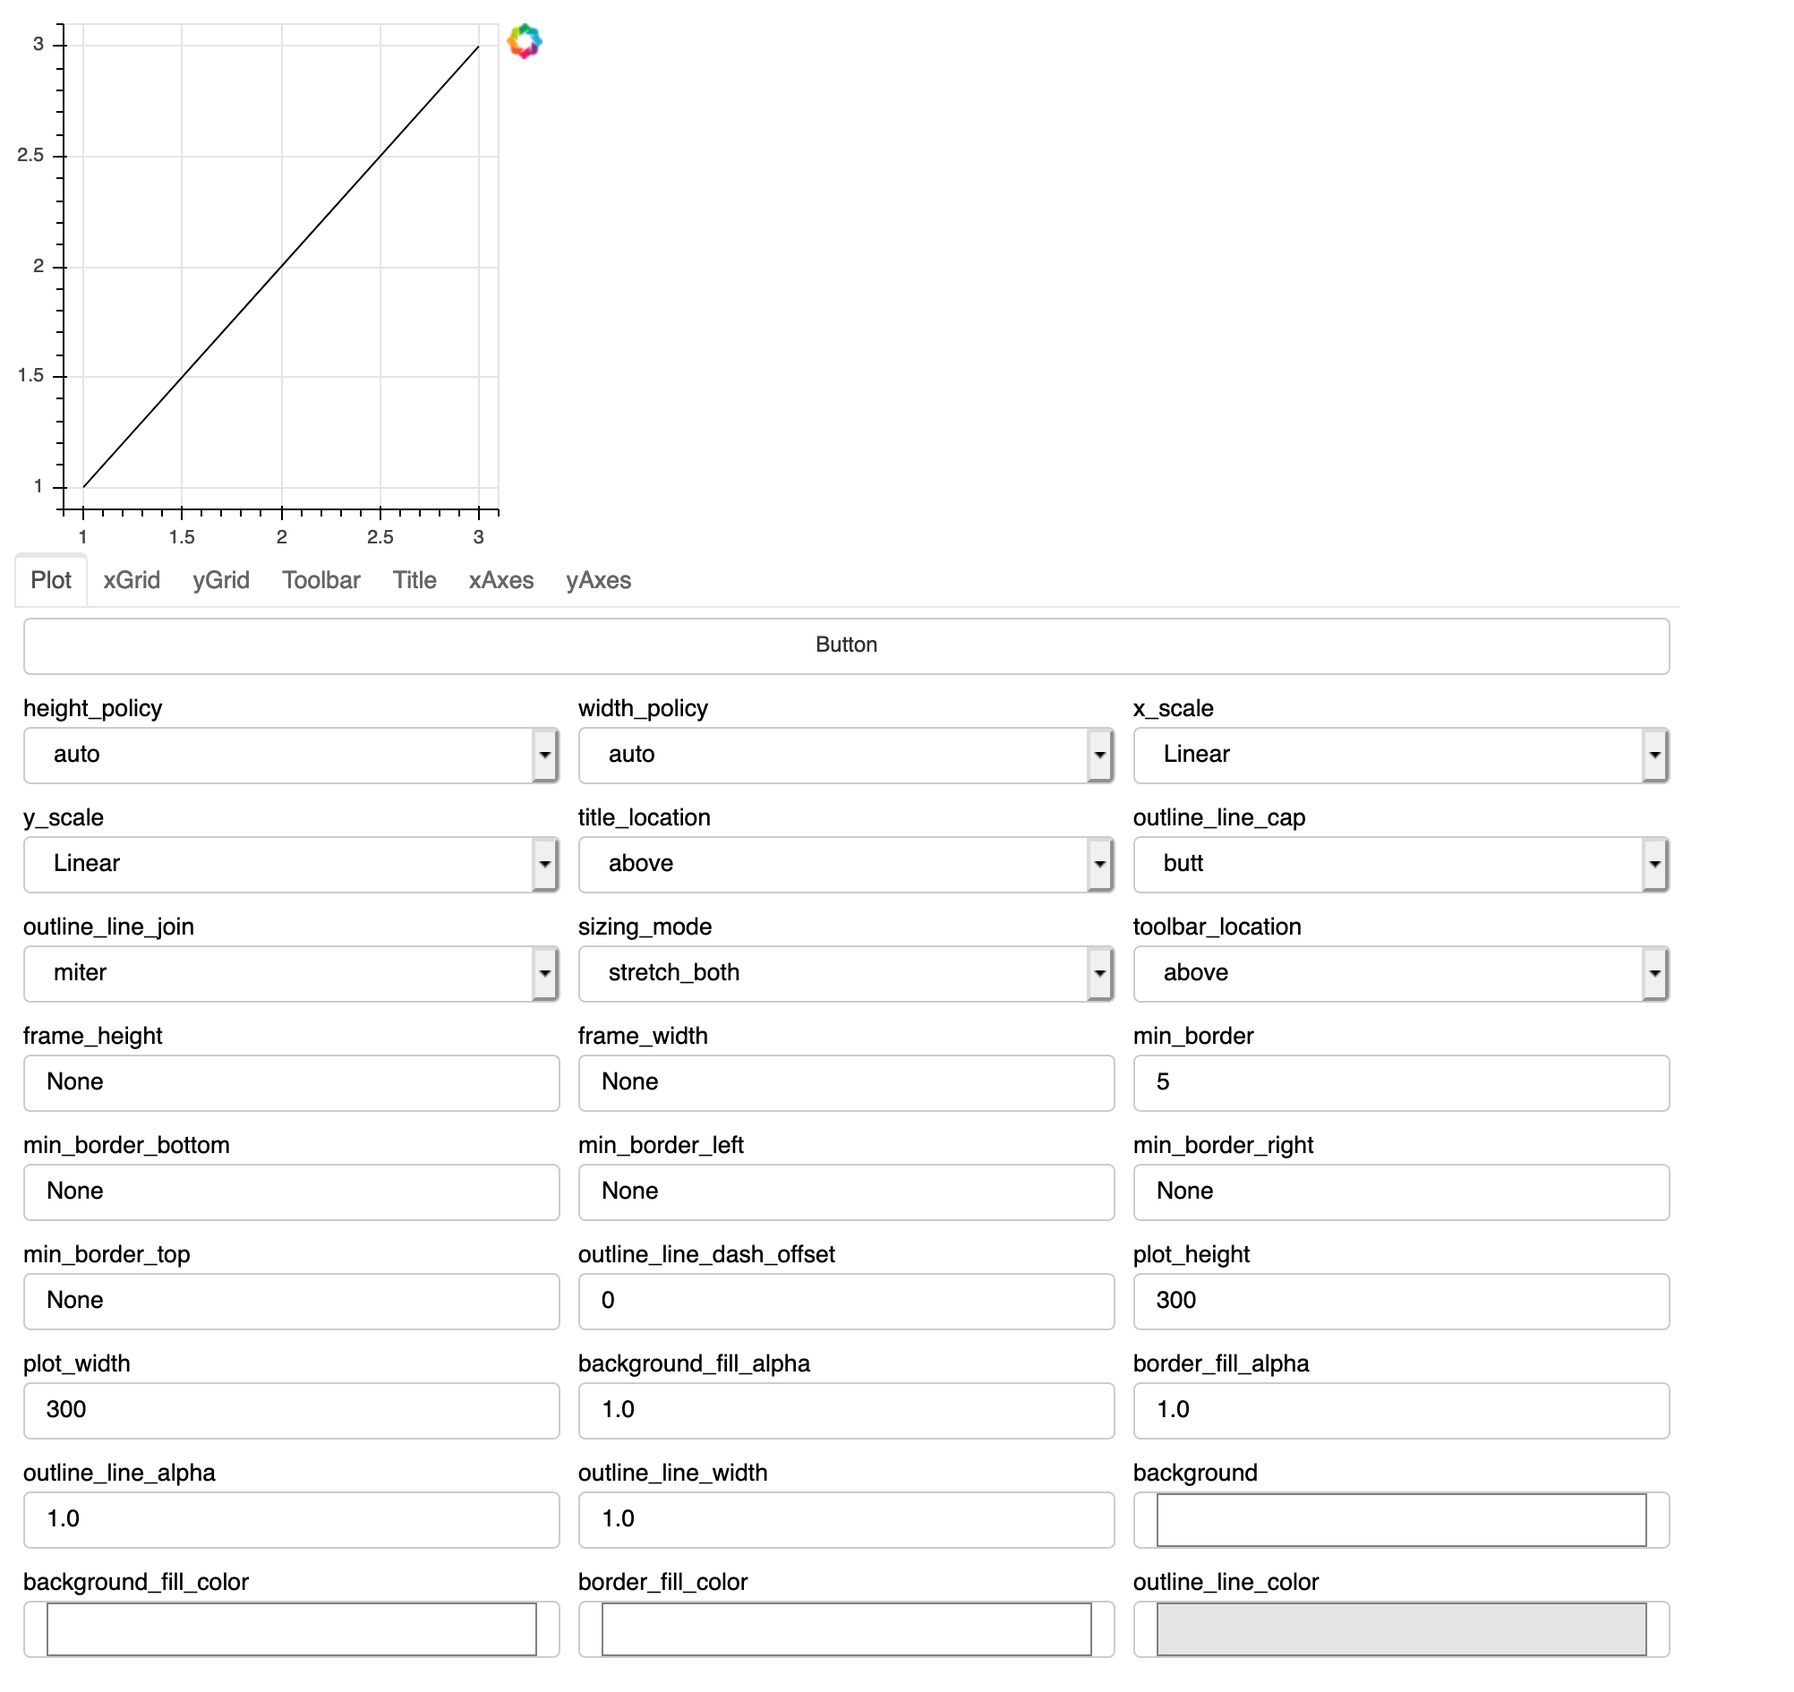
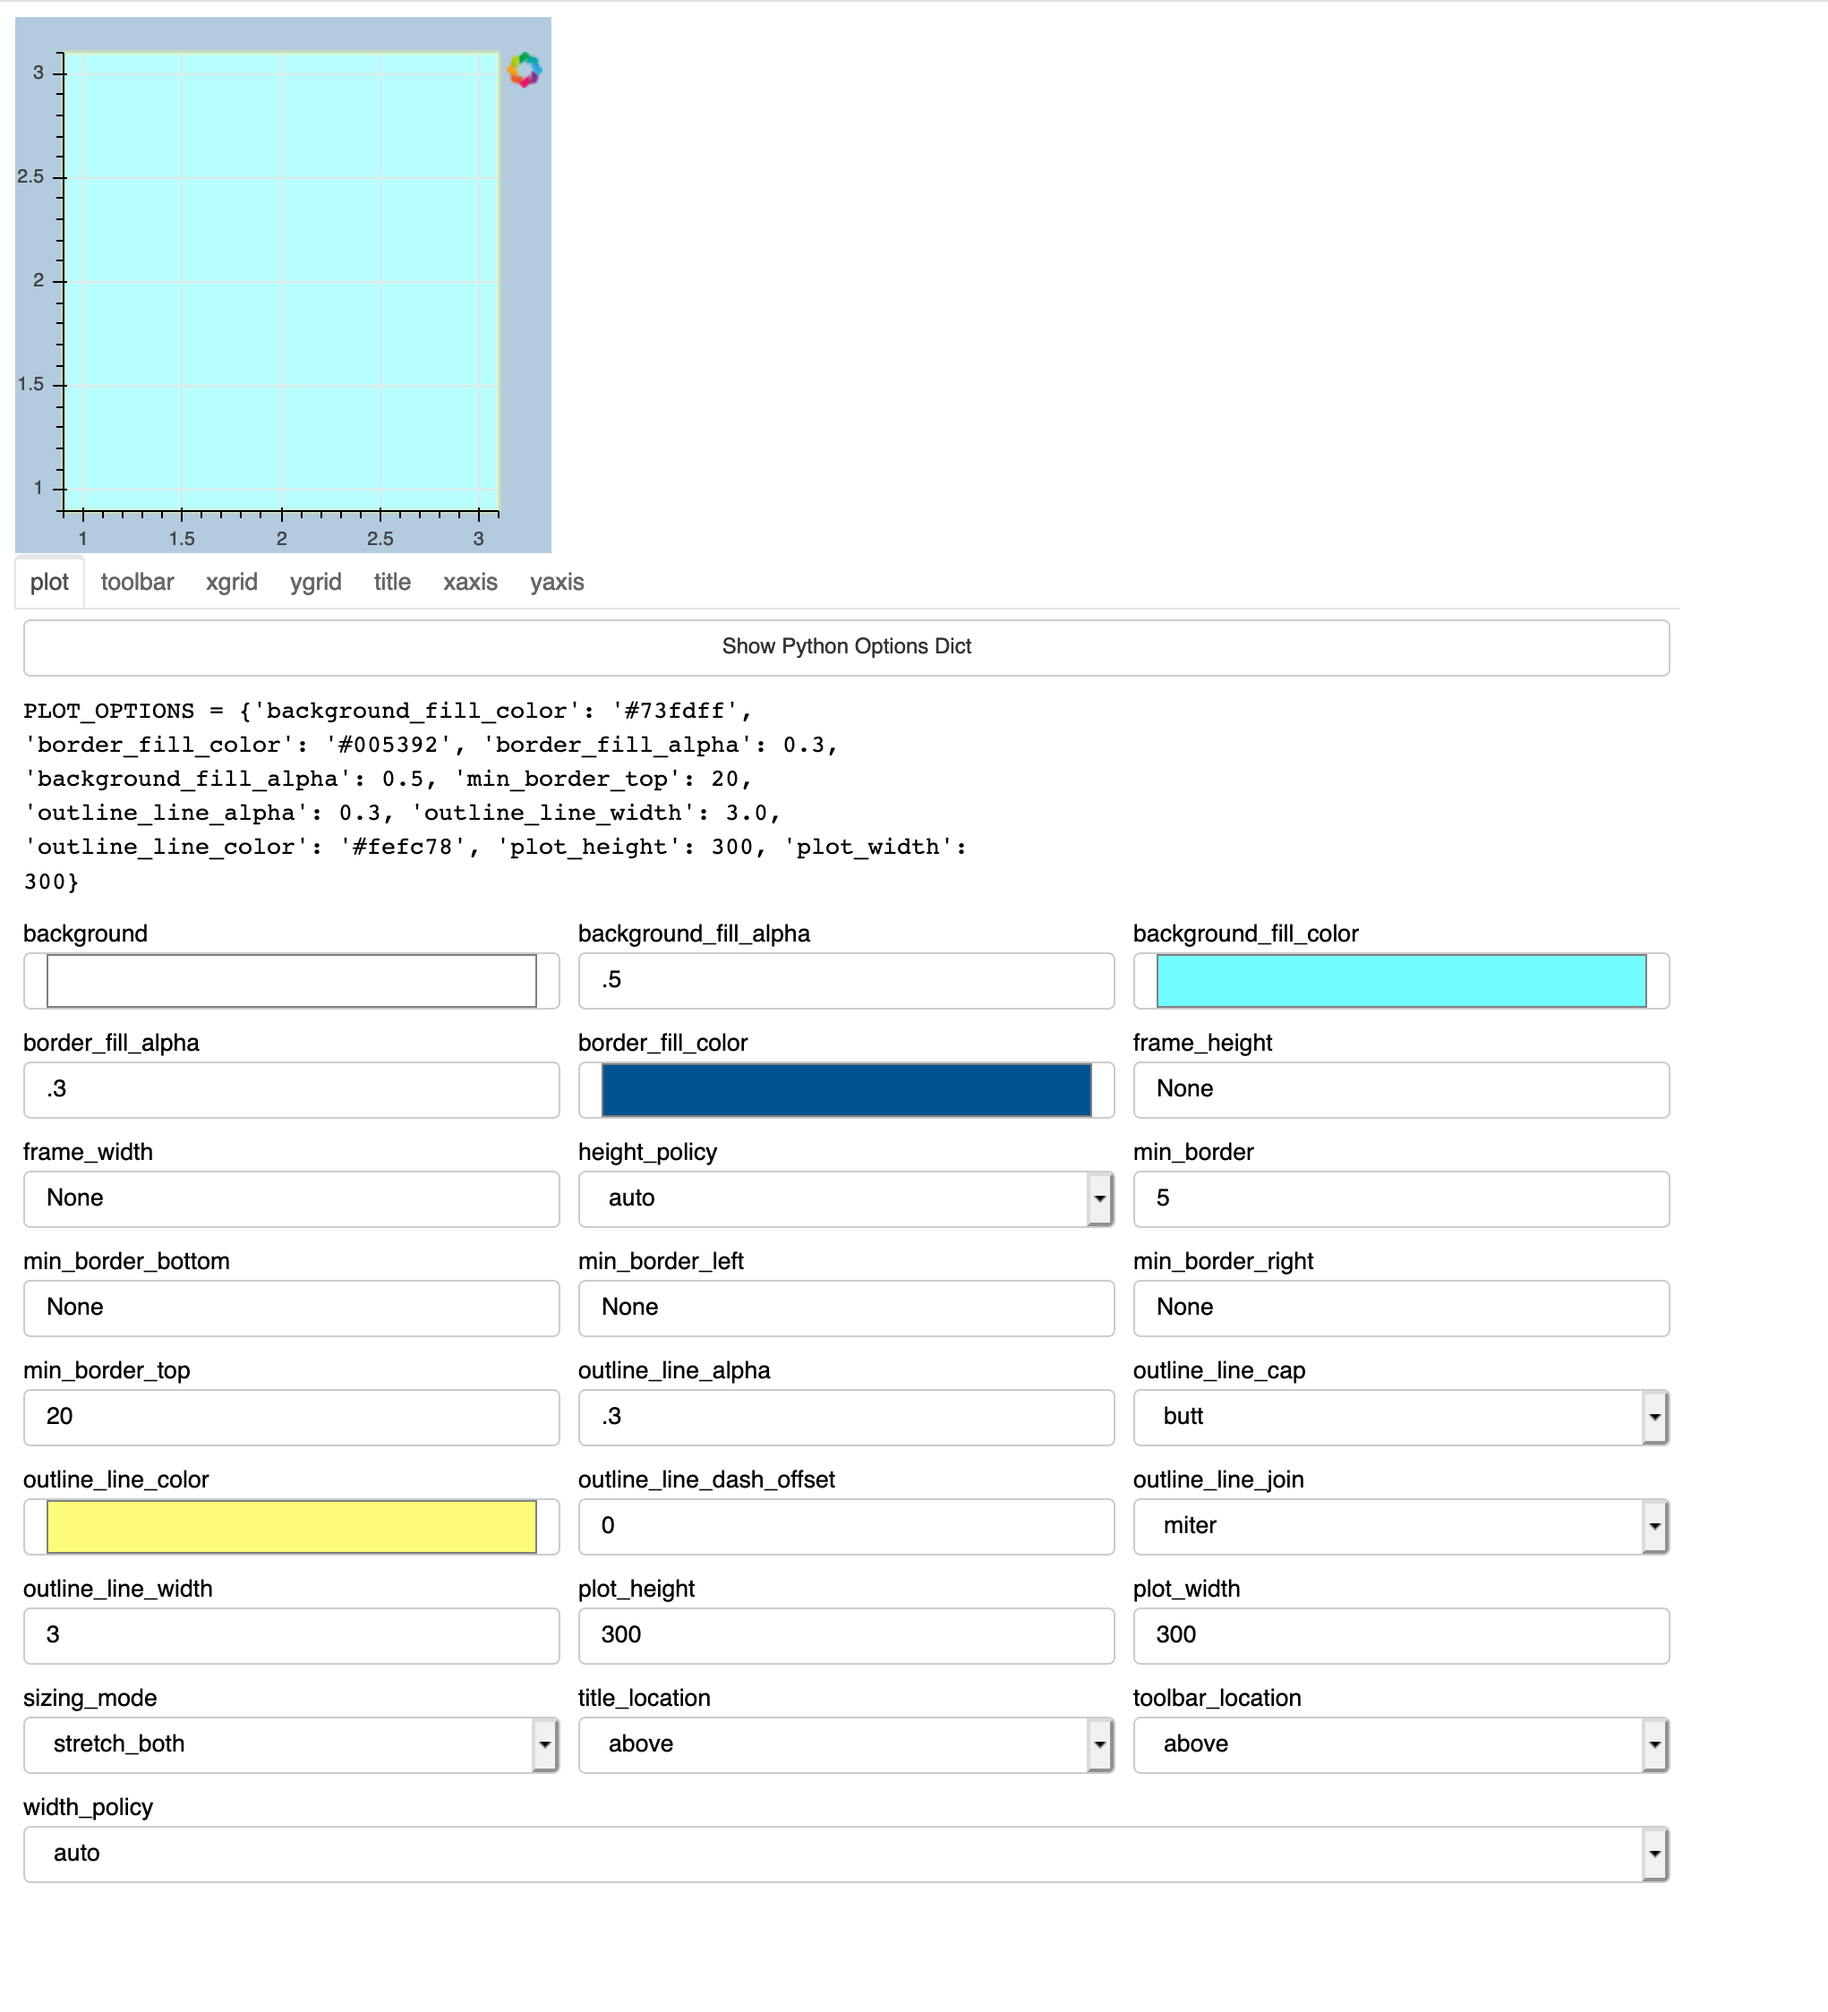
updated README to show progress

Changed region(s): [[0.0, 0.0, 0.9281, 0.9989]]

diff --git a/README.md b/README.md
@@ -10,13 +10,21 @@ This tool (very much under development) offers a graphical interface to those op
 working with this tool to prepare a plot format that they like, and then obtaining code from the tool
 that they can include in whatever bokeh project they are working on.
 
-To run this preliminary version and see the general idea, download the code and run
+As your theme evolves for a given tab, that tab will display a python statement of the form
+```
+PLOT_OPTIONS = {'background_fill_alpha':'#efefef',...}
+```
+You can copy these into a file [following the strategy outlined in this post](https://blog.bokeh.org/posts/styling-bokeh).
+to create a "styling dictionary."
 
+
+The trial.py file is a bokeh server app that loads the widgets.py and options.py modules.  You run it like this:
 ```
 $ bokeh serve trial.py
 ```
+and navigate in your browser to localhost port 5006.
 
-As yet, you can't output the results!
+
 
 <img src="ui.png" width=300/>
 
